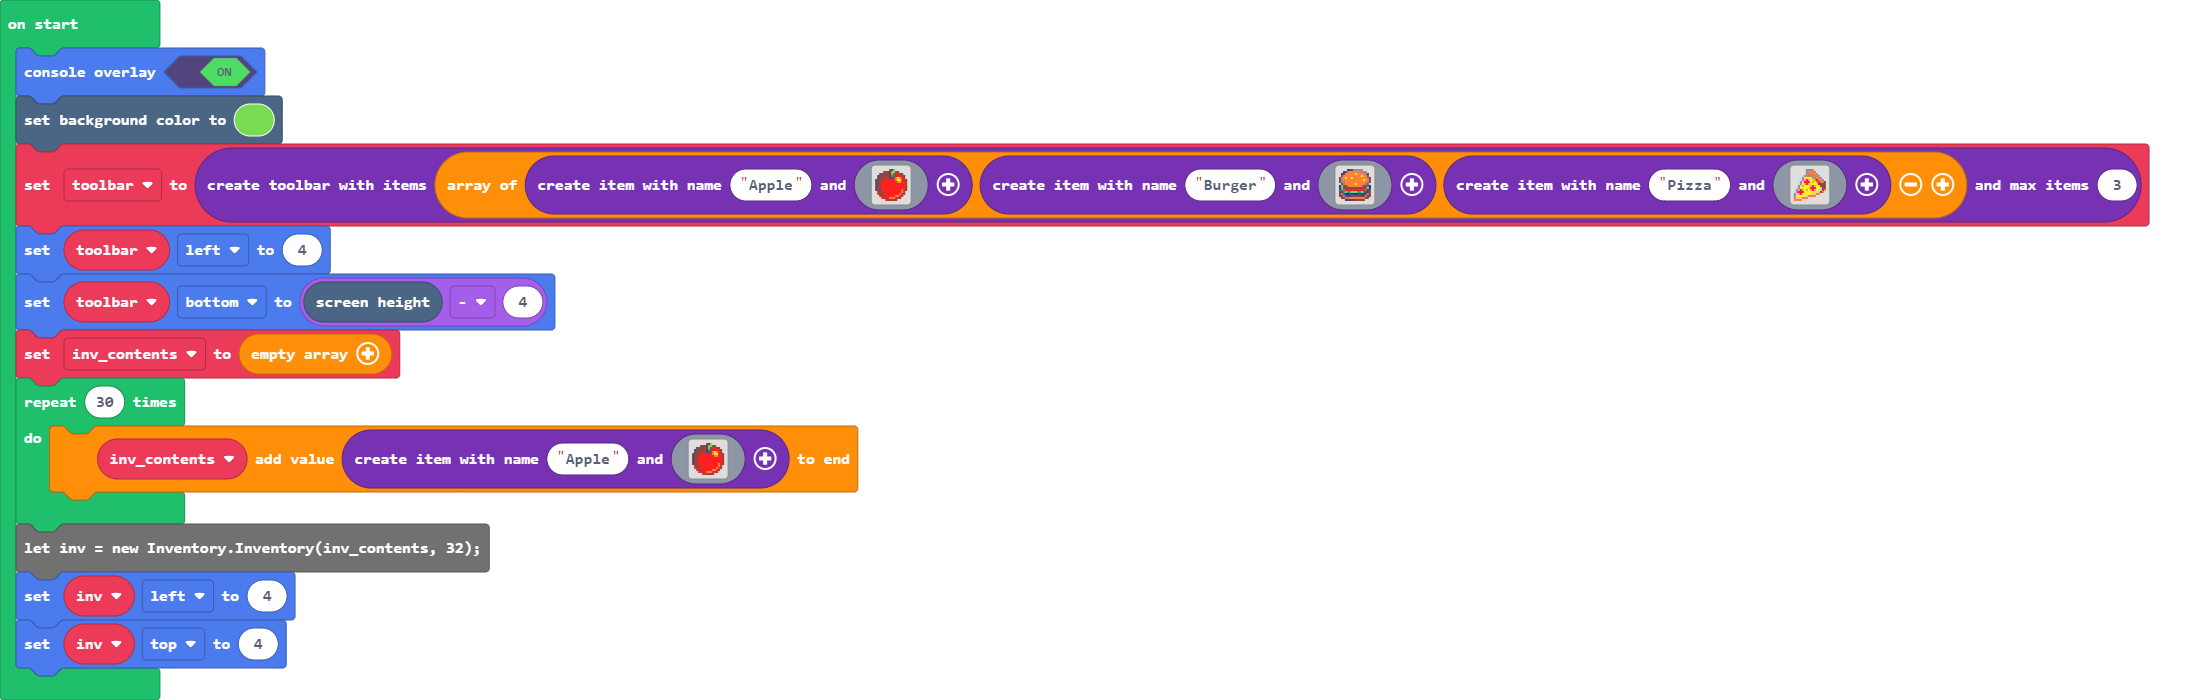
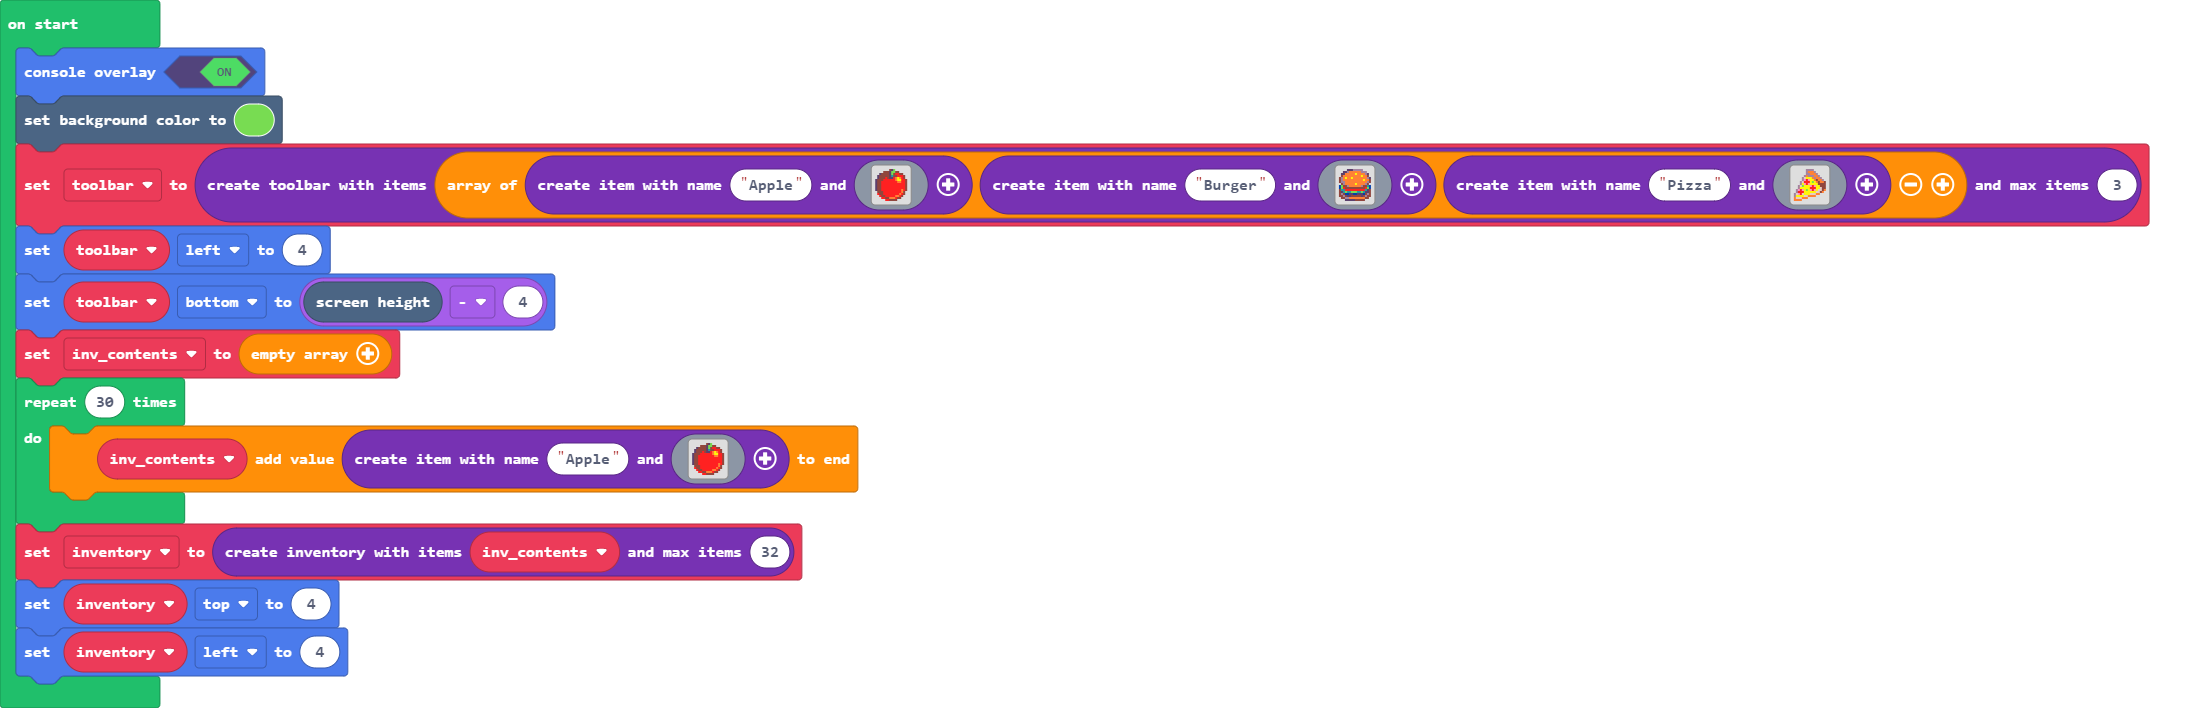
Finish blocks for inventory class

Changed region(s): [[0.0, 0.06, 0.9886, 0.96], [0.0, 0.09, 0.0618, 0.12]]

diff --git a/inventory.ts b/inventory.ts
@@ -32,6 +32,13 @@ enum ToolbarNumberAttribute {
     MaxItems
 }
 
+enum InventoryNumberAttribute {
+    //% block="selected index"
+    SelectedIndex,
+    //% block="max items"
+    MaxItems
+}
+
 //% color="#7732B3"
 //% group="['Item', 'Toolbar', 'Inventory']"
 namespace Inventory {
@@ -396,11 +403,29 @@ namespace Inventory {
         }
 
         /**
+         * Get the items in the inventory. Only rewrapped for blocks.
+         */
+        //% block="%Inventory(Inventory) get items"
+        //% weight=80
+        //% group="Inventory"
+        public get_items() {
+            return this.items;
+        }
+
+        /**
          * Set the items in the inventory.
          */
         public set items(new_items: Item[]) {
             this._items = new_items;
             this.update();
+        }
+
+        //% block="%Inventory(Inventory) set items to %new_items"
+        //% new_items.shadow="lists_create_with"
+        //% weight=90
+        //% group="Inventory"
+        public set_items(new_items: Item[]) {
+            this.items = new_items;
         }
 
         /**
@@ -417,12 +442,51 @@ namespace Inventory {
             this._max_items = new_max;
             this.update();
         }
+
+        /**
+         * Set the selected index or max items. Only rewrapped for blocks.
+         */
+        //% block="%Inventory(Inventory) set %attribute to %value"
+        //% weight=70
+        //% group="Inventory"
+        public set_number(attribute: InventoryNumberAttribute, value: number) {
+            if (attribute == InventoryNumberAttribute.SelectedIndex) {
+                this.selected = value;
+            } else if (attribute == InventoryNumberAttribute.MaxItems) {
+                this.max_items = value;
+            }
+        }
+
+        /**
+         * Get the selected index or max items. Only rewrapped for blocks.
+         */
+        //% block="%Inventory(Inventory) get %attribute"
+        //% weight=60
+        //% group="Inventory"
+        public get_number(attribute: InventoryNumberAttribute) {
+            if (attribute == InventoryNumberAttribute.SelectedIndex) {
+                return this.selected;
+            } else if (attribute == InventoryNumberAttribute.MaxItems) {
+                return this.max_items;
+            }
+            return -1;
+        }
         
         /**
          * Get the text in the inventory.
          */
         public get text() {
             return this._text;
+        }
+
+        /**
+         * Get the text in the inventory. Only rewrapped for blocks.
+         */
+        //% block="%Inventory(Inventory) get text"
+        //% weight=40
+        //% group="Inventory"
+        public get_text() {
+            return this.text;
         }
 
         /**
@@ -434,10 +498,24 @@ namespace Inventory {
         }
 
         /**
+         * Set the text in the inventory. Only rewrapped for blocks.
+         */
+        //% block="%Inventory(Inventory) set text to %new_text"
+        //% weight=50
+        //% group="Inventory"
+        public set_text(new_text: string) {
+            this.text = new_text;
+        }
+
+        /**
          * Set a specific part of the inventory to a specific color.
          * @param attribute: A property of the InventoryColorAttribute enum.
          * @param color: A number which should be the new color of the attribute.
          */
+        //% block="%Inventory(Inventory) set color of %attribute to %color"
+        //% color.shadow=colorindexpicker
+        //% weight=30
+        //% group="Inventory"
         public set_color(attribute: InventoryColorAttribute, color: number) {
             if (attribute == InventoryColorAttribute.InventoryOutline) {
                 this._inv_outline_color = color;
@@ -456,6 +534,9 @@ namespace Inventory {
          * @param attribute: A property of the InventoryColorAttribute enum.
          * @return: The  color (which is a number) of the attribute, otherwise -1. 
          */
+        //% block="%Inventory(Inventory) get color of %attribute"
+        //% weight=20
+        //% group="Inventory"
         public get_color(attribute: InventoryColorAttribute) {
             if (attribute == InventoryColorAttribute.InventoryOutline) {
                 return this._inv_outline_color;
@@ -472,6 +553,9 @@ namespace Inventory {
         /**
          * Update the image of the inventory.
          */
+        //% block="%Inventory(Inventory) force redraw of inventory"
+        //% weight=10
+        //% group="Inventory"
         public update() {
             let image_size: number = 16;
             let padding: number = 1;
@@ -500,5 +584,18 @@ namespace Inventory {
             }
             this.setImage(new_image);
         }
+    }
+
+    /**
+     * Create a new inventory - for blocks.
+     */
+    //% block="create inventory with items %items and max items %max_items"
+    //% blockSetVariable=inventory
+    //% items.shadow="lists_create_with"
+    //% max_items.dfl=3
+    //% weight=100
+    //% group="Inventory"
+    export function create_inventory(items: Item[], max_items: number) {
+        return new Inventory(items, max_items);
     }
 }

diff --git a/main.ts b/main.ts
@@ -75,6 +75,6 @@ for (let index = 0; index < 30; index++) {
         . . . . . 2 2 e e e e . . . . . 
         `))
 }
-let inv = new Inventory.Inventory(inv_contents, 32);
-inv.left = 4
-inv.top = 4
+let inventory = Inventory.create_inventory(inv_contents, 32)
+inventory.top = 4
+inventory.left = 4
